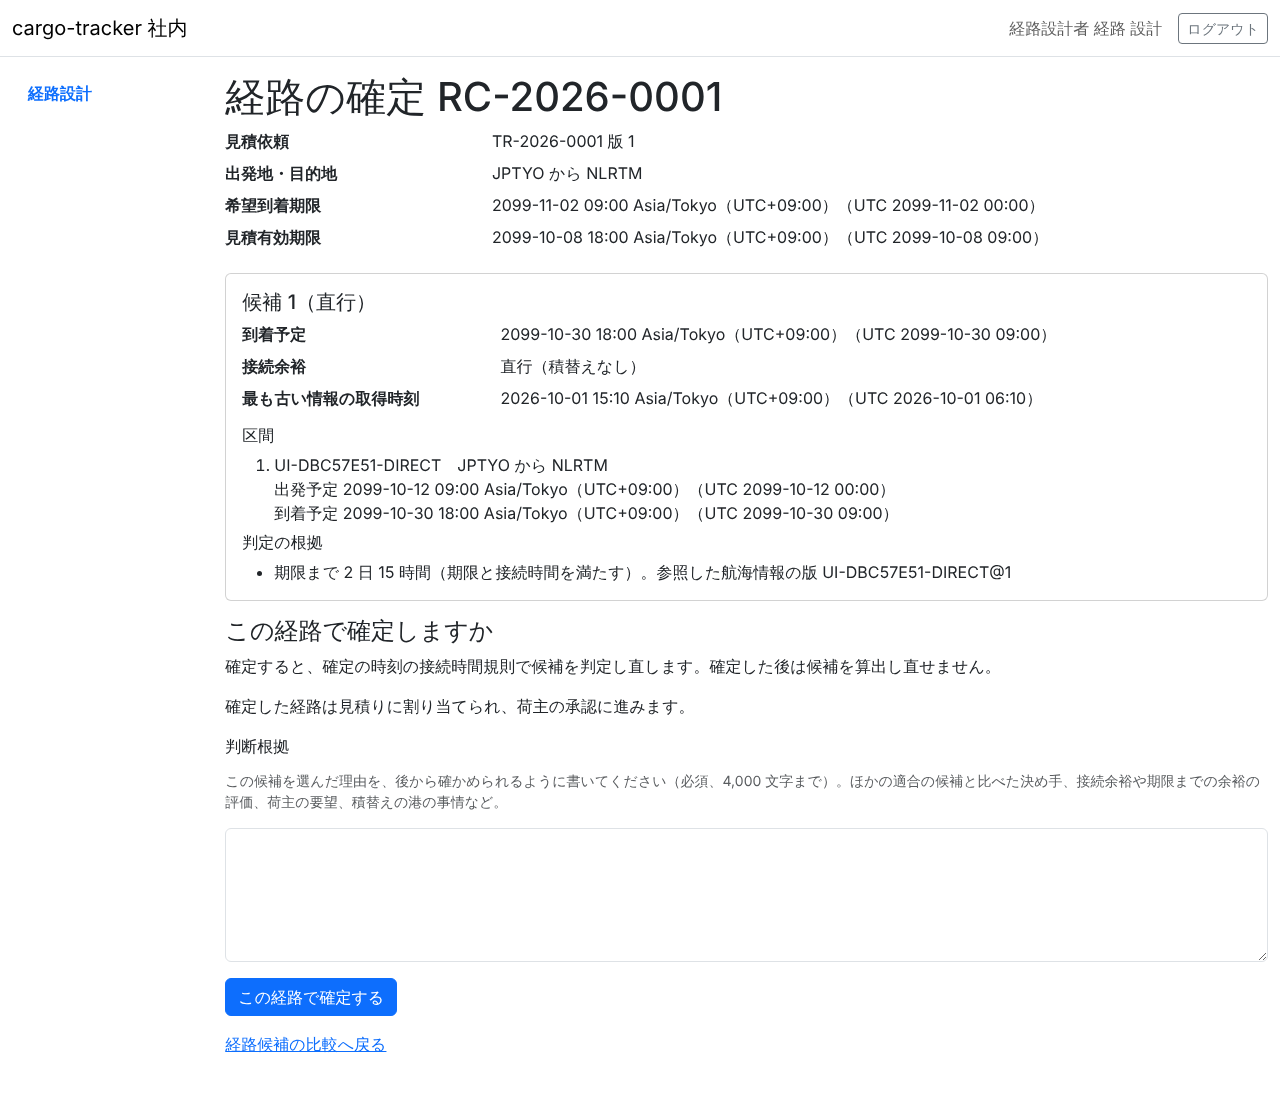
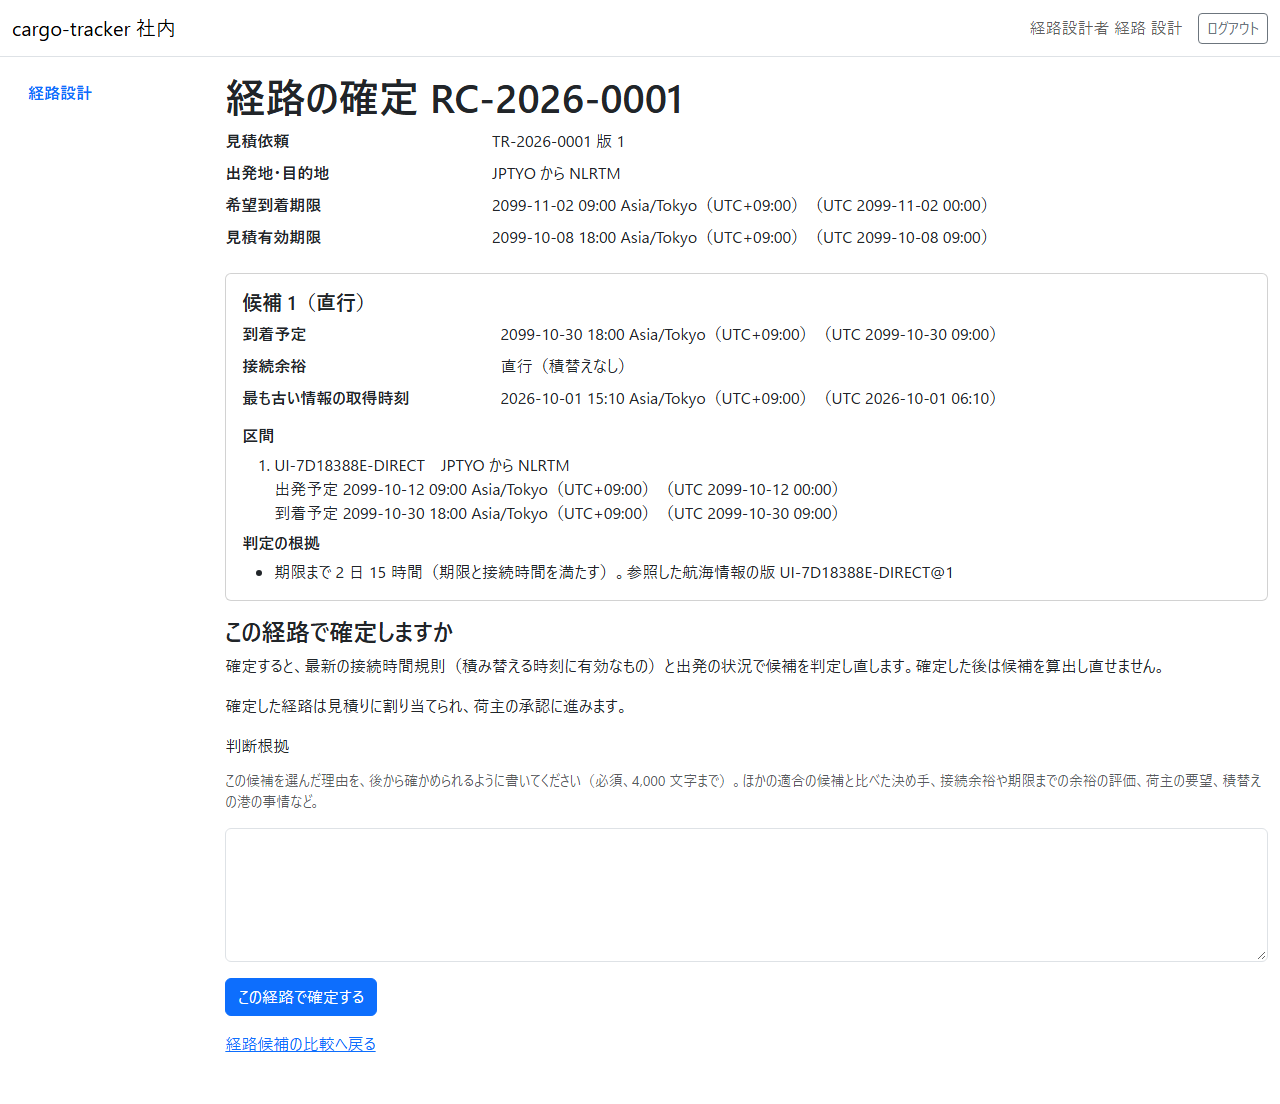
feat(routing): S-07 と S-06 の規則の文言とマニュアル 8 章を D-90 に合わせる（Bolt 37）
S-07 の説明を「最新の接続時間規則（積み替える時刻に有効なもの）と出発の状況で判定し直す」に、
S-06 の接続できない理由を「次の出発の時刻で有効な接続時間規則がない」に直した。マニュアル 8.2 に候補は
積替え 2 回までであることと規則を選ぶ時刻を、8.3 の ③ と注意を直し、08-confirmation.png を撮り直した。

Claude-Session: https://claude.ai/code/session_01LDW6HVmiazMbqbG4c8UQGq

diff --git a/apps/cargo-tracker/src/main/resources/templates/routing/staff/routing-cases/confirmation.html b/apps/cargo-tracker/src/main/resources/templates/routing/staff/routing-cases/confirmation.html
@@ -58,7 +58,7 @@
         </div>
     </section>
     <h2 class="h4">この経路で確定しますか</h2>
-    <p>確定すると、確定の時刻の接続時間規則で候補を判定し直します。確定した後は候補を算出し直せません。</p>
+    <p>確定すると、最新の接続時間規則（積み替える時刻に有効なもの）と出発の状況で候補を判定し直します。確定した後は候補を算出し直せません。</p>
     <p>確定した経路は見積りに割り当てられ、荷主の承認に進みます。</p>
     <form th:action="@{/staff/routing-cases/{number}/confirmation(number=${page.number()})}" method="post">
         <input type="hidden" name="candidate" th:value="${page.candidate().candidateNo()}">

diff --git a/apps/cargo-tracker/src/test/java/com/example/cargotracker/routing/interfaces/web/RoutingCaseControllerTest.java b/apps/cargo-tracker/src/test/java/com/example/cargotracker/routing/interfaces/web/RoutingCaseControllerTest.java
@@ -161,7 +161,7 @@ class RoutingCaseControllerTest {
                 .andExpect(content().string(Matchers.containsString("不足 4 時間")))
                 // Bolt 17 レビュー D-61: 実際の接続時間と、規則がないことを判定できないと示す。経由港と期限までの余裕を示す
                 .andExpect(content().string(Matchers.containsString("接続不足（SGSIN で接続 4 時間、必要 8 時間、SGSIN の規則）")))
-                .andExpect(content().string(Matchers.containsString("接続を判定できない（HKHKG の接続時間規則が未登録。接続 1 日）")))
+                .andExpect(content().string(Matchers.containsString("接続を判定できない（HKHKG に次の出発の時刻で有効な接続時間規則がない。接続 1 日）")))
                 .andExpect(content().string(Matchers.containsString("期限超過 1 日 12 時間")))
                 .andExpect(content().string(Matchers.containsString("期限まで 2 日")))
                 .andExpect(content().string(Matchers.containsString("SGSIN 積替え")))

diff --git a/apps/cargo-tracker/src/main/java/com/example/cargotracker/routing/interfaces/web/RoutingCaseViews.java b/apps/cargo-tracker/src/main/java/com/example/cargotracker/routing/interfaces/web/RoutingCaseViews.java
@@ -263,7 +263,7 @@ final class RoutingCaseViews {
                         + reason.port().unLocode()
                         + " の規則）。次の出発 " + dateTime(reason.violatedAt()) + INFO_VERSION + reason.infoVersion();
             case NOT_CONNECTABLE ->
-                "接続を判定できない（" + reason.port().unLocode() + " の接続時間規則が未登録。接続 "
+                "接続を判定できない（" + reason.port().unLocode() + " に次の出発の時刻で有効な接続時間規則がない。接続 "
                         + connection(reason, legs) + "）。次の出発 " + dateTime(reason.violatedAt())
                         + INFO_VERSION + reason.infoVersion();
             case CARGO_NOT_SUPPORTED -> "貨物種別に対応しない" + INFO_VERSION + reason.infoVersion();

diff --git a/docs/manual/08-経路設計.md b/docs/manual/08-経路設計.md
@@ -4,7 +4,7 @@ title: "8 章 経路設計"
 description: "荷主が見積りに回答して詳細経路設計を依頼した後に、経路設計者が経路の候補を算出して比べ、判断根拠を残して経路を確定する画面です。"
 tags: [manual,cargo-tracker]
 status: draft
-generated: { by: anthropic/claude-opus-5-5, at: 2026-10-11T06:44:40Z }
+generated: { by: anthropic/claude-opus-5-5, at: 2026-10-21T07:46:26Z }
 ---
 
 # 8 章 経路設計
@@ -65,7 +65,7 @@ generated: { by: anthropic/claude-opus-5-5, at: 2026-10-11T06:44:40Z }
 
 | # | 項目 | 説明 |
 | :--- | :--- | :--- |
-| ① | 案件の情報 | 見積依頼・出発地・目的地・希望到着期限・経路方針（参考）・見積有効期限・依頼の日時・判定時刻 |
+| ① | 案件の情報 | 見積依頼・出発地・目的地・希望到着期限・経路方針（参考）・見積有効期限・依頼の日時・判定時刻（候補を算出した時刻。この時刻より後に出発する区間で候補を作ります） |
 | ② | 「候補を算出」（算出の後は「候補を再算出」） | 航海の情報から候補を算出します |
 | ③ | 経路候補 | 適合を先に、到着予定の早い順。候補ごとに「適合」「除外」の印 |
 | ④ | 到着予定・接続余裕・最も古い情報の取得時刻 | 候補の判断の材料 |
@@ -82,6 +82,8 @@ generated: { by: anthropic/claude-opus-5-5, at: 2026-10-11T06:44:40Z }
 ### 注意・補足
 
 - 期限と同時刻に着く候補、必要最小接続時間と同じ接続時間の候補は「適合」です
+- 候補は直行から積替え 2 回（区間 3 つ）までです。同じ航海や同じ港を 2 回使う候補、目的地を通り過ぎてから戻る候補は出ません
+- 接続時間の規則は、積み替える時刻（次の区間の出発予定）に有効なものを使います。判定時刻に有効な規則ではありません。積替えの港に、その時刻に有効な規則がなければ「接続を判定できない」で除外します。接続がいくつかある候補は、足りない接続ごとに除外の理由が出ます。接続余裕は、接続のうち最も小さいものです
 - 除外の候補は確定できません。除外の理由を確かめてください
 - 経路方針（参考）は営業担当者が見積りで示したものです。参考として比べてください
 
@@ -103,7 +105,7 @@ generated: { by: anthropic/claude-opus-5-5, at: 2026-10-11T06:44:40Z }
 | :--- | :--- | :--- |
 | ① | 案件の情報 | 見積依頼・出発地・目的地・希望到着期限・見積有効期限 |
 | ② | 選んだ候補 | 到着予定・接続余裕・区間・判定の根拠（参照した航海情報の版を含む） |
-| ③ | この経路で確定しますか | 確定の時刻の規則で判定し直すこと、確定した後は候補を算出し直せないこと |
+| ③ | この経路で確定しますか | 確定するときに、最新の接続時間規則（積み替える時刻に有効なもの）と出発の状況で判定し直すこと、確定した後は候補を算出し直せないこと |
 | ④ | 判断根拠 | この候補を選んだ理由（必須、4,000 文字まで）。ほかの適合の候補と比べた決め手、接続余裕や期限までの余裕の評価、荷主の要望など |
 | ⑤ | 「この経路で確定する」 | 確定します |
 
@@ -120,4 +122,4 @@ generated: { by: anthropic/claude-opus-5-5, at: 2026-10-11T06:44:40Z }
 
 - 判断根拠が空、または長すぎると確定できず、エラーが示されます。入力は残ります
 - ほかの経路設計者が先に同じ案件を更新していたときは、「ほかの経路設計者が先にこの案件を更新しました。最新の候補を確かめてください。」と示されます
-- 確定の時刻に、出発済みの区間があったり規則に合わなくなっていたりすると確定できません。候補を算出し直してください
+- 確定するときに、最初の区間が出発済みだったり、候補を算出した後に登録・変更された接続時間規則に合わなくなっていたりすると確定できません。候補を算出し直してください

diff --git a/docs/log.md b/docs/log.md
@@ -1,6 +1,7 @@
 # Docs Update Log
 
 ## 2026-10-21
+* **Update**: [08-経路設計](/manual/08-経路設計.md) を更新（anthropic/claude-opus-5-5）
 * **Update**: [user_story](/requirements/cargo-tracker/user_story.md) を更新（anthropic/claude-opus-5-5）
 * **Update**: [requirements_definition](/requirements/cargo-tracker/requirements_definition.md) を更新（anthropic/claude-opus-5-5）
 * **Update**: [release_plan](/development/cargo-tracker/release_plan.md) を更新（anthropic/claude-opus-5-5）
